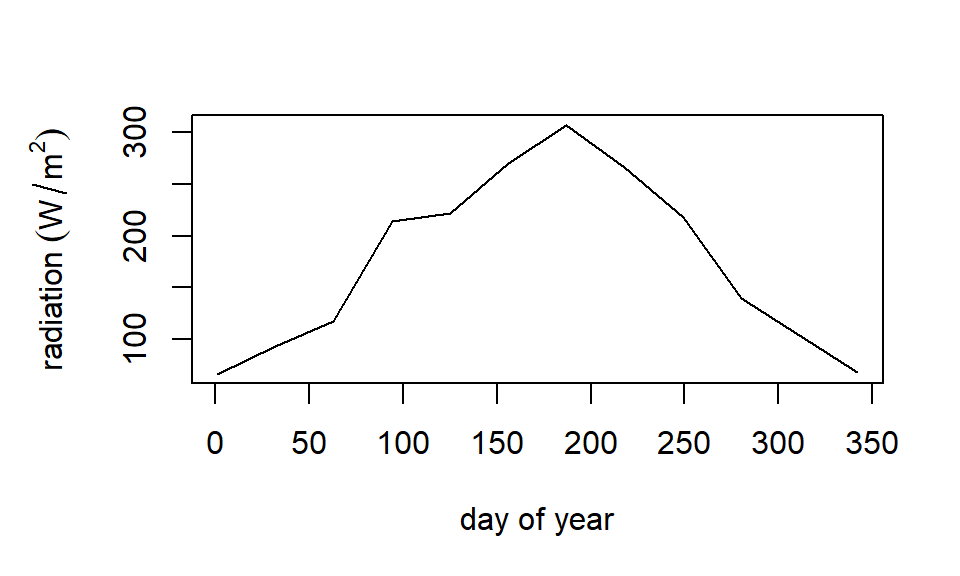
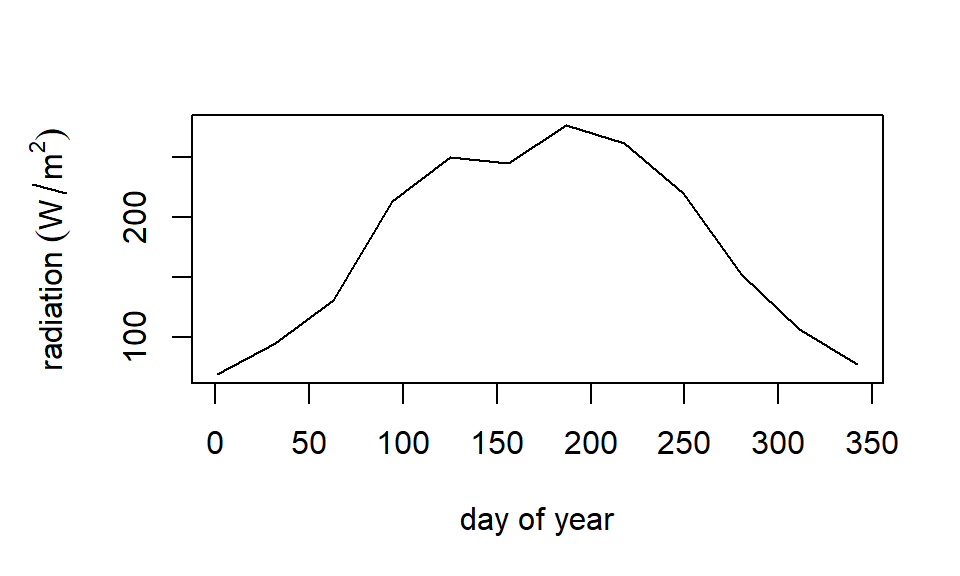
error fixes

diff --git a/docs/index.html b/docs/index.html
@@ -1,199 +1,1 @@
-<!DOCTYPE html>
-<!-- Generated by pkgdown: do not edit by hand --><html lang="en">
-<head>
-<meta http-equiv="Content-Type" content="text/html; charset=UTF-8">
-<meta charset="utf-8">
-<meta http-equiv="X-UA-Compatible" content="IE=edge">
-<meta name="viewport" content="width=device-width, initial-scale=1.0">
-<title>An R package encompassing functions for assessing the impact of the environment of organisms • TrenchR</title>
-<!-- jquery --><script src="https://cdnjs.cloudflare.com/ajax/libs/jquery/3.3.1/jquery.min.js" integrity="sha256-FgpCb/KJQlLNfOu91ta32o/NMZxltwRo8QtmkMRdAu8=" crossorigin="anonymous"></script><!-- Bootstrap --><link rel="stylesheet" href="https://cdnjs.cloudflare.com/ajax/libs/twitter-bootstrap/3.3.7/css/bootstrap.min.css" integrity="sha256-916EbMg70RQy9LHiGkXzG8hSg9EdNy97GazNG/aiY1w=" crossorigin="anonymous">
-<script src="https://cdnjs.cloudflare.com/ajax/libs/twitter-bootstrap/3.3.7/js/bootstrap.min.js" integrity="sha256-U5ZEeKfGNOja007MMD3YBI0A3OSZOQbeG6z2f2Y0hu8=" crossorigin="anonymous"></script><!-- Font Awesome icons --><link rel="stylesheet" href="https://cdnjs.cloudflare.com/ajax/libs/font-awesome/5.7.1/css/all.min.css" integrity="sha256-nAmazAk6vS34Xqo0BSrTb+abbtFlgsFK7NKSi6o7Y78=" crossorigin="anonymous">
-<link rel="stylesheet" href="https://cdnjs.cloudflare.com/ajax/libs/font-awesome/5.7.1/css/v4-shims.min.css" integrity="sha256-6qHlizsOWFskGlwVOKuns+D1nB6ssZrHQrNj1wGplHc=" crossorigin="anonymous">
-<!-- clipboard.js --><script src="https://cdnjs.cloudflare.com/ajax/libs/clipboard.js/2.0.4/clipboard.min.js" integrity="sha256-FiZwavyI2V6+EXO1U+xzLG3IKldpiTFf3153ea9zikQ=" crossorigin="anonymous"></script><!-- headroom.js --><script src="https://cdnjs.cloudflare.com/ajax/libs/headroom/0.9.4/headroom.min.js" integrity="sha256-DJFC1kqIhelURkuza0AvYal5RxMtpzLjFhsnVIeuk+U=" crossorigin="anonymous"></script><script src="https://cdnjs.cloudflare.com/ajax/libs/headroom/0.9.4/jQuery.headroom.min.js" integrity="sha256-ZX/yNShbjqsohH1k95liqY9Gd8uOiE1S4vZc+9KQ1K4=" crossorigin="anonymous"></script><!-- pkgdown --><link href="pkgdown.css" rel="stylesheet">
-<script src="pkgdown.js"></script><meta property="og:title" content="An R package encompassing functions for assessing the impact of the environment of organisms">
-<meta property="og:description" content="We aim to create an R package (TrenchR) encompassing resources
-             for assessing the impact of the environment of organisms. 
-             The package will build off and integrate with existing packages 
-             (e.g., NicheMapR). Code (scripts and functions) will be accepting
-             in any programming language and thorough commenting will be appreciated. 
-             We would also appreciate your including a header that describes the intent, input, and output of your scripts and functions.">
-<meta name="twitter:card" content="summary">
-<!-- mathjax --><script src="https://cdnjs.cloudflare.com/ajax/libs/mathjax/2.7.5/MathJax.js" integrity="sha256-nvJJv9wWKEm88qvoQl9ekL2J+k/RWIsaSScxxlsrv8k=" crossorigin="anonymous"></script><script src="https://cdnjs.cloudflare.com/ajax/libs/mathjax/2.7.5/config/TeX-AMS-MML_HTMLorMML.js" integrity="sha256-84DKXVJXs0/F8OTMzX4UR909+jtl4G7SPypPavF+GfA=" crossorigin="anonymous"></script><!--[if lt IE 9]>
-<script src="https://oss.maxcdn.com/html5shiv/3.7.3/html5shiv.min.js"></script>
-<script src="https://oss.maxcdn.com/respond/1.4.2/respond.min.js"></script>
-<![endif]-->
-</head>
-<body>
-    <div class="container template-home">
-      <header><div class="navbar navbar-default navbar-fixed-top" role="navigation">
-  <div class="container">
-    <div class="navbar-header">
-      <button type="button" class="navbar-toggle collapsed" data-toggle="collapse" data-target="#navbar" aria-expanded="false">
-        <span class="sr-only">Toggle navigation</span>
-        <span class="icon-bar"></span>
-        <span class="icon-bar"></span>
-        <span class="icon-bar"></span>
-      </button>
-      <span class="navbar-brand">
-        <a class="navbar-link" href="index.html">TrenchR</a>
-        <span class="version label label-default" data-toggle="tooltip" data-placement="bottom" title="Released version">0.0.0.9000</span>
-      </span>
-    </div>
-
-    <div id="navbar" class="navbar-collapse collapse">
-      <ul class="nav navbar-nav">
-<li>
-  <a href="index.html">
-    <span class="fas fa fas fa-home fa-lg"></span>
-     
-  </a>
-</li>
-<li>
-  <a href="reference/index.html">Reference</a>
-</li>
-<li class="dropdown">
-  <a href="#" class="dropdown-toggle" data-toggle="dropdown" role="button" aria-expanded="false">
-    Articles
-     
-    <span class="caret"></span>
-  </a>
-  <ul class="dropdown-menu" role="menu">
-<li>
-      <a href="articles/AllometryAndConversionsTutorial.html">TrenchR: Allometries and conversions</a>
-    </li>
-    <li>
-      <a href="articles/MicroclimateTutorial.html">TrenchR: Estimating microclimates</a>
-    </li>
-    <li>
-      <a href="articles/Symbols.html">List of Symbols</a>
-    </li>
-    <li>
-      <a href="articles/TeTutorial.html">TrenchR: Using energy balances to estimate body temperatures</a>
-    </li>
-  </ul>
-</li>
-      </ul>
-<ul class="nav navbar-nav navbar-right">
-<li>
-  <a href="https://github.com/trenchproject/TrenchR">
-    <span class="fab fa fab fa-github fa-lg"></span>
-     
-  </a>
-</li>
-      </ul>
-</div>
-<!--/.nav-collapse -->
-  </div>
-<!--/.container -->
-</div>
-<!--/.navbar -->
-
-      
-
-      </header><div class="row">
-  <div class="contents col-md-9">
-<div id="trenchr" class="section level2">
-<h2 class="hasAnchor">
-<a href="#trenchr" class="anchor"></a># TrenchR</h2>
-<p>an R package for transparent environmental and ecological biophysics</p>
-<p><strong>Author:</strong> <a href="https://trenchproject.github.io">TrEnCh project, Buckley Lab, Department of Biology, University of Washington</a><br><strong>License:</strong> <a href="http://opensource.org/licenses/MIT">MIT</a><br></p>
-<p><a href="https://travis-ci.org/trenchproject/TrenchR"><img src="https://travis-ci.org/trenchproject/TrenchR.svg?branch=master" alt="Build Status"></a></p>
-<div id="description" class="section level3">
-<h3 class="hasAnchor">
-<a href="#description" class="anchor"></a>Description</h3>
-<p>The TrenchR package aids in Translating Environmental Change into organismal responses (<a href="https://github.com/trenchproject/TrenchR" class="uri">https://github.com/trenchproject/TrenchR</a>). The package facilitates microclimate modelling to translate weather station data into the environmental conditions experienced by organisms and biophysical modelling to predict organismal body temperatures given the environmental conditions. The package aims to introduce and enable microclimate and biophysical modelling to improve ecological and evolutionary forecasting and includes tutorials and well as a series of educational modules introducing microclimate and biophysical modelling. The package complements and integrates with the NicheMapR package (<a href="https://github.com/mrke/NicheMapR" class="uri">https://github.com/mrke/NicheMapR</a>).</p>
-</div>
-<div id="installation" class="section level3">
-<h3 class="hasAnchor">
-<a href="#installation" class="anchor"></a>Installation</h3>
-<p>You can install the package from the <a href="https://github.com/trenchproject/TrenchR">github repository</a>:</p>
-<div class="sourceCode"><pre class="sourceCode r"><code class="sourceCode r"><span class="kw"><a href="https://rdrr.io/r/utils/install.packages.html">install.packages</a></span>(<span class="st">"devtools"</span>)   
-<span class="kw"><a href="https://rdrr.io/r/base/library.html">library</a></span>(<span class="st">"devtools"</span>)   
-devtools<span class="op">::</span><span class="kw"><a href="https://rdrr.io/pkg/devtools/man/remote-reexports.html">install_github</a></span>(<span class="dt">build_vignettes =</span> <span class="ot">TRUE</span>,<span class="dt">repo =</span> <span class="st">"trenchproject/TrenchR"</span>)</code></pre></div>
-</div>
-<div id="using-the-package" class="section level3">
-<h3 class="hasAnchor">
-<a href="#using-the-package" class="anchor"></a>Using the package</h3>
-<p>The package encompasses simple functions that can be combined to estimate environmental conditions and their impacts on organisms. Many of the functions are adapted from biophysical ecology texts including the follows:</p>
-<ul>
-<li>Gates DM. Biophysical Ecology.</li>
-<li>Campbell GS and Norman JM. An introduction to environmental biophysics.</li>
-</ul>
-</div>
-<div id="package-vignette" class="section level3">
-<h3 class="hasAnchor">
-<a href="#package-vignette" class="anchor"></a>Package Vignette</h3>
-<p>We introduce each function in categorically grouped tutorials. A good place to start is the Allometry and conversions tutorial, which provides tools for preparing data such as estimating additional dimensions of organisms from measured dimensions.</p>
-<div class="sourceCode"><pre class="sourceCode r"><code class="sourceCode r"><span class="kw"><a href="https://rdrr.io/r/utils/vignette.html">vignette</a></span>(<span class="st">"AllometryAndConversionsTutorial.Rmd"</span>, <span class="dt">package=</span><span class="st">"TrenchR"</span>)</code></pre></div>
-<p>The Estimating microclimates tutorial provides resources for estimating the environmental conditions experienced by organisms. This includes estimating solar radiation and its components, diurnal variation in temperature and radiation, temperature and wind speed profiles, and soil temperatures and profiles.</p>
-<div class="sourceCode"><pre class="sourceCode r"><code class="sourceCode r"><span class="kw"><a href="https://rdrr.io/r/utils/vignette.html">vignette</a></span>(<span class="st">"MicroclimateTutorial"</span>, <span class="dt">package=</span><span class="st">"TrenchR"</span>)</code></pre></div>
-<p>Finally, the core biophysical modelling functions are described in a tutorial on Using energy balances to estimate body temperatures. Components of an energy budget can be estimated using individual functions and then operative environmental temperatures, Te, can be solved for using either a generic energy balance or taxa specific biophysical models.</p>
-<div class="sourceCode"><pre class="sourceCode r"><code class="sourceCode r"><span class="kw"><a href="https://rdrr.io/r/utils/vignette.html">vignette</a></span>(<span class="st">"TeTutorial"</span>, <span class="dt">package=</span><span class="st">"TrenchR"</span>)</code></pre></div>
-</div>
-<div id="future-directions" class="section level3">
-<h3 class="hasAnchor">
-<a href="#future-directions" class="anchor"></a>Future Directions</h3>
-<p>We welcome code contributions, fixes, and comments. Code (scripts and functions) will be accepted in any programming language and thorough commenting will be appreciated. We would also appreciate your including a header that describes the intent, input, and output of your scripts and functions.</p>
-</div>
-<div id="citation" class="section level3">
-<h3 class="hasAnchor">
-<a href="#citation" class="anchor"></a>Citation</h3>
-<p>If you use this package, We would appreciate a citation. You can see an up to date citation information with <code><a href="https://rdrr.io/r/utils/citation.html">citation("TrenchR")</a></code>. You can cite either the package or the accompanying journal article.</p>
-</div>
-<div id="setup" class="section level3">
-<h3 class="hasAnchor">
-<a href="#setup" class="anchor"></a>Setup</h3>
-<p>If you are using macOS, you might need to install R package “rgl” which indirectly would ask you to install XQuartz. The reason for it is that there is a dependency for package “ks”.</p>
-</div>
-</div>
-  </div>
-
-  <div class="col-md-3 hidden-xs hidden-sm" id="sidebar">
-    <div class="links">
-<h2>Links</h2>
-<ul class="list-unstyled">
-<li>Browse source code at <br><a href="https://github.com/trenchproject/TrenchR">https://github.com/trenchproject/TrenchR</a>
-</li>
-<li>Report a bug at <br><a href="https://github.com/trenchproject/TrenchR/issues">https://github.com/trenchproject/TrenchR/issues</a>
-</li>
-</ul>
-</div>
-<div class="license">
-<h2>License</h2>
-<ul class="list-unstyled">
-<li>
-<a href="https://opensource.org/licenses/mit-license.php">MIT</a> + file <a href="LICENSE-text.html">LICENSE</a>
-</li>
-</ul>
-</div>
-<div class="developers">
-<h2>Developers</h2>
-<ul class="list-unstyled">
-<li>Lauren Buckley <br><small class="roles"> Author, maintainer </small>  </li>
-<li>Aji John <br><small class="roles"> Author, contributor </small>  </li>
-<li>Bryan Briones Ortiz <br><small class="roles"> Author, contributor </small>  </li>
-<li>Yutaro Sakairi <br><small class="roles"> Author, contributor </small>  </li>
-<li><a href="authors.html">All authors...</a></li>
-</ul>
-</div>
-
-  </div>
-</div>
-
-
-      <footer><div class="copyright">
-  <p>Developed by Lauren Buckley, Aji John, Bryan Briones Ortiz, Yutaro Sakairi.</p>
-</div>
-
-<div class="pkgdown">
-  <p>Site built with <a href="https://pkgdown.r-lib.org/">pkgdown</a> 1.4.1.</p>
-</div>
-
-      </footer>
-</div>
-
-  
-
-
-  </body>
-</html>
+

diff --git a/docs/articles/MicroclimateTutorial.html b/docs/articles/MicroclimateTutorial.html
@@ -91,7 +91,7 @@
       <h1>TrenchR: Estimating microclimates</h1>
                         <h4 class="author">Lauren Buckley and the TrEnCh project, Department of Biology, University of Washington</h4>
             
-            <h4 class="date">2020-01-24</h4>
+            <h4 class="date">2020-01-30</h4>
       
       <small class="dont-index">Source: <a href="https://github.com/trenchproject/TrenchR/blob/master/vignettes/MicroclimateTutorial.Rmd"><code>vignettes/MicroclimateTutorial.Rmd</code></a></small>
       <div class="hidden name"><code>MicroclimateTutorial.Rmd</code></div>
@@ -119,7 +119,7 @@
 <p>Zenith angle <span class="math inline">\(\psi\)</span> (°), the location of the sun as an angle measured from vertical, can be estimated as: <span class="math display">\[\cos \psi = \sin( \delta) \sin( \phi) + \cos(\delta)\cos(\phi)\cos(\pi/12*(h-h_0)),\]</span> where <span class="math inline">\(J\)</span> is calendar date, <span class="math inline">\(\phi\)</span> is latitude (radians), <span class="math inline">\(h\)</span> is hour, and <span class="math inline">\(h_0\)</span> is the time of solar noon. We illustrate how zenith angles (°) change over the day throughout the year in Seattle, WA, USA:</p>
 <div class="sourceCode"><pre class="sourceCode r"><code class="sourceCode r">zen=<span class="st"> </span><span class="kw"><a href="https://rdrr.io/r/base/unlist.html">unlist</a></span>(<span class="kw"><a href="https://rdrr.io/r/base/lapply.html">lapply</a></span>(<span class="dv">1</span><span class="op">:</span><span class="dv">24</span>, <span class="dt">FUN=</span>zenith_angle, <span class="dt">doy=</span><span class="dv">200</span>, <span class="dt">lat=</span><span class="fl">47.61</span>, <span class="dt">lon=</span><span class="op">-</span><span class="fl">122.33</span>))
 <span class="kw"><a href="https://rdrr.io/r/graphics/plot.html">plot</a></span>(<span class="dv">1</span><span class="op">:</span><span class="dv">24</span>, zen, <span class="dt">type=</span><span class="st">"l"</span>, <span class="dt">ylab=</span><span class="st">"zenith angle (°)"</span>, <span class="dt">xlab=</span><span class="st">"hour"</span>)
-zen=<span class="st"> </span><span class="kw"><a href="https://rdrr.io/r/base/unlist.html">unlist</a></span>(<span class="kw"><a href="https://rdrr.io/r/base/lapply.html">lapply</a></span>(<span class="dv">1</span><span class="op">:</span><span class="dv">24</span>, <span class="dt">FUN=</span>zenith_angle, <span class="dt">doy=</span><span class="dv">0</span>, <span class="dt">lat=</span><span class="fl">47.61</span>, <span class="dt">lon=</span><span class="op">-</span><span class="fl">122.33</span>))
+zen=<span class="st"> </span><span class="kw"><a href="https://rdrr.io/r/base/unlist.html">unlist</a></span>(<span class="kw"><a href="https://rdrr.io/r/base/lapply.html">lapply</a></span>(<span class="dv">1</span><span class="op">:</span><span class="dv">24</span>, <span class="dt">FUN=</span>zenith_angle, <span class="dt">doy=</span><span class="dv">1</span>, <span class="dt">lat=</span><span class="fl">47.61</span>, <span class="dt">lon=</span><span class="op">-</span><span class="fl">122.33</span>))
 <span class="kw"><a href="https://rdrr.io/r/graphics/points.html">points</a></span>(<span class="dv">1</span><span class="op">:</span><span class="dv">24</span>, zen, <span class="dt">type=</span><span class="st">"l"</span>, <span class="dt">lty=</span><span class="st">"dotted"</span>)
 zen=<span class="st"> </span><span class="kw"><a href="https://rdrr.io/r/base/unlist.html">unlist</a></span>(<span class="kw"><a href="https://rdrr.io/r/base/lapply.html">lapply</a></span>(<span class="dv">1</span><span class="op">:</span><span class="dv">24</span>, <span class="dt">FUN=</span>zenith_angle, <span class="dt">doy=</span><span class="dv">100</span>, <span class="dt">lat=</span><span class="fl">47.61</span>, <span class="dt">lon=</span><span class="op">-</span><span class="fl">122.33</span>))
 <span class="kw"><a href="https://rdrr.io/r/graphics/points.html">points</a></span>(<span class="dv">1</span><span class="op">:</span><span class="dv">24</span>, zen, <span class="dt">type=</span><span class="st">"l"</span>, <span class="dt">lty=</span><span class="st">"dotdash"</span>)
@@ -242,7 +242,7 @@ r.seq=<span class="st"> </span><span class="kw"><a href="https://rdrr.io/r/base/
 <div class="sourceCode"><pre class="sourceCode r"><code class="sourceCode r">u_r=<span class="st"> </span><span class="kw"><a href="https://rdrr.io/r/base/c.html">c</a></span>(<span class="fl">0.01</span>,<span class="fl">0.025</span>,<span class="fl">0.05</span>,<span class="fl">0.1</span>,<span class="fl">0.2</span>)
 zr=<span class="st"> </span><span class="kw"><a href="https://rdrr.io/r/base/c.html">c</a></span>(<span class="fl">0.1</span>,<span class="fl">0.25</span>,<span class="fl">0.5</span>,<span class="fl">0.75</span>,<span class="dv">1</span>)
 <span class="kw"><a href="../reference/surface_roughness.html">surface_roughness</a></span>(u_r, zr)</code></pre></div>
-<pre><code>## [1] 0.1030198</code></pre>
+<pre><code>## [1] 0.06485225</code></pre>
 <p>We use the following relationship to estimate air temperature and wind speed at height <span class="math inline">\(z\)</span> under neutral conditions (no buoyancy associated with differential density): <span class="math display">\[\frac{u_z}{u_r}=\frac{ln(z/z_0+1)}{ln(z_r/z_0+1)}=\frac{T_z-T_0}{T_r-T_0} \]</span> where <span class="math inline">\(u_z\)</span> and <span class="math inline">\(u_r\)</span> are the wind speeds (m/s) at height <span class="math inline">\(z\)</span> (m) and reference height <span class="math inline">\(r\)</span> (m), respectively. <span class="math inline">\(T_z\)</span>, <span class="math inline">\(T_r\)</span>, and <span class="math inline">\(T_0\)</span> are air and soil temperatures at heights <span class="math inline">\(z\)</span> and <span class="math inline">\(r\)</span> and soil surface temperature, respectively. We provide this relationship in the <code><a href="../reference/wind_speed_profile_neutral.html">wind_speed_profile_neutral()</a></code> function, which estimates wind speed at a specified height. We additionally provide this relationship in the <code><a href="../reference/air_temp_profile_neutral.html">air_temp_profile_neutral()</a></code> function, which estimates temperature at a specified height.</p>
 <p>We examine how the wind speed profiles varies with wind speed (m/s).</p>
 <div class="sourceCode"><pre class="sourceCode r"><code class="sourceCode r">zs=<span class="st"> </span><span class="kw"><a href="https://rdrr.io/r/base/seq.html">seq</a></span>(<span class="dv">0</span>,<span class="dv">2</span>,<span class="fl">0.1</span>) 
@@ -379,13 +379,8 @@ params=<span class="kw"><a href="https://rdrr.io/r/base/list.html">list</a></spa
 
 <span class="kw"><a href="https://rdrr.io/r/graphics/plot.html">plot</a></span>(<span class="dv">1</span><span class="op">:</span><span class="dv">96</span>, temp_vector, <span class="dt">type =</span> <span class="st">"l"</span>, <span class="dt">xlab =</span> <span class="st">"hour"</span>, <span class="dt">ylab=</span><span class="st">"temperature (°C)"</span>, <span class="dt">ylim=</span><span class="kw"><a href="https://rdrr.io/r/base/c.html">c</a></span>(<span class="op">-</span><span class="dv">10</span>,<span class="dv">50</span>))
 
-T_soil=<span class="st"> </span><span class="kw"><a href="../reference/soil_temperature.html">soil_temperature</a></span>(<span class="dt">z_r.intervals=</span><span class="dv">12</span>,<span class="dt">z_r=</span><span class="fl">1.5</span>, <span class="dt">z=</span><span class="dv">2</span>, <span class="dt">T_a=</span>temp_vector, <span class="dt">u=</span>wind_speed_vector, <span class="dt">Tsoil0=</span> <span class="dv">20</span>, <span class="dt">z0=</span><span class="fl">0.02</span>, <span class="dt">SSA=</span><span class="fl">0.7</span>, <span class="dt">TimeIn=</span>time_vector, <span class="dt">H=</span> solrad_vector, <span class="dt">water_content=</span><span class="fl">0.2</span>, <span class="dt">air_pressure=</span><span class="dv">85</span>, <span class="dt">rho_so=</span><span class="dv">1620</span>, <span class="dt">shade=</span><span class="ot">FALSE</span>)</code></pre></div>
-<pre><code>## 
-## Attaching package: 'zoo'</code></pre>
-<pre><code>## The following objects are masked from 'package:base':
-## 
-##     as.Date, as.Date.numeric</code></pre>
-<div class="sourceCode"><pre class="sourceCode r"><code class="sourceCode r"><span class="kw"><a href="https://rdrr.io/r/graphics/points.html">points</a></span>(<span class="dv">1</span><span class="op">:</span><span class="dv">96</span>, T_soil, <span class="dt">lty=</span><span class="st">"dashed"</span>, <span class="dt">type=</span><span class="st">"l"</span>)
+T_soil=<span class="st"> </span><span class="kw"><a href="../reference/soil_temperature.html">soil_temperature</a></span>(<span class="dt">z_r.intervals=</span><span class="dv">12</span>,<span class="dt">z_r=</span><span class="fl">1.5</span>, <span class="dt">z=</span><span class="dv">2</span>, <span class="dt">T_a=</span>temp_vector, <span class="dt">u=</span>wind_speed_vector, <span class="dt">Tsoil0=</span> <span class="dv">20</span>, <span class="dt">z0=</span><span class="fl">0.02</span>, <span class="dt">SSA=</span><span class="fl">0.7</span>, <span class="dt">TimeIn=</span>time_vector, <span class="dt">H=</span> solrad_vector, <span class="dt">water_content=</span><span class="fl">0.2</span>, <span class="dt">air_pressure=</span><span class="dv">85</span>, <span class="dt">rho_so=</span><span class="dv">1620</span>, <span class="dt">shade=</span><span class="ot">FALSE</span>)
+<span class="kw"><a href="https://rdrr.io/r/graphics/points.html">points</a></span>(<span class="dv">1</span><span class="op">:</span><span class="dv">96</span>, T_soil, <span class="dt">lty=</span><span class="st">"dashed"</span>, <span class="dt">type=</span><span class="st">"l"</span>)
 
 T_soil=<span class="st"> </span><span class="kw"><a href="../reference/soil_temperature.html">soil_temperature</a></span>(<span class="dt">z_r.intervals=</span><span class="dv">12</span>,<span class="dt">z_r=</span><span class="fl">1.5</span>, <span class="dt">z=</span><span class="dv">4</span>, <span class="dt">T_a=</span>temp_vector, <span class="dt">u=</span>wind_speed_vector, <span class="dt">Tsoil0=</span> <span class="dv">20</span>, <span class="dt">z0=</span><span class="fl">0.02</span>, <span class="dt">SSA=</span><span class="fl">0.7</span>, <span class="dt">TimeIn=</span>time_vector, <span class="dt">H=</span> solrad_vector, <span class="dt">water_content=</span><span class="fl">0.2</span>, <span class="dt">air_pressure=</span><span class="dv">85</span>, <span class="dt">rho_so=</span><span class="dv">1620</span>, <span class="dt">shade=</span><span class="ot">FALSE</span>)
 <span class="kw"><a href="https://rdrr.io/r/graphics/points.html">points</a></span>(<span class="dv">1</span><span class="op">:</span><span class="dv">96</span>, T_soil, <span class="dt">lty=</span><span class="st">"dotted"</span>, <span class="dt">type=</span><span class="st">"l"</span>)

diff --git a/docs/articles/AllometryAndConversionsTutorial.html b/docs/articles/AllometryAndConversionsTutorial.html
@@ -91,7 +91,7 @@
       <h1>TrenchR: Allometries and conversions</h1>
                         <h4 class="author">Lauren Buckley and the TrEnCh project, Department of Biology, University of Washington</h4>
             
-            <h4 class="date">2020-01-24</h4>
+            <h4 class="date">2020-01-30</h4>
       
       <small class="dont-index">Source: <a href="https://github.com/trenchproject/TrenchR/blob/master/vignettes/AllometryAndConversionsTutorial.Rmd"><code>vignettes/AllometryAndConversionsTutorial.Rmd</code></a></small>
       <div class="hidden name"><code>AllometryAndConversionsTutorial.Rmd</code></div>

diff --git a/docs/articles/Symbols.html b/docs/articles/Symbols.html
@@ -91,7 +91,7 @@
       <h1>List of Symbols</h1>
                         <h4 class="author">TrEnCh project, Buckley Lab, Department of Biology, University of Washington</h4>
             
-            <h4 class="date">2020-01-24</h4>
+            <h4 class="date">2020-01-30</h4>
       
       <small class="dont-index">Source: <a href="https://github.com/trenchproject/TrenchR/blob/master/vignettes/Symbols.Rmd"><code>vignettes/Symbols.Rmd</code></a></small>
       <div class="hidden name"><code>Symbols.Rmd</code></div>
